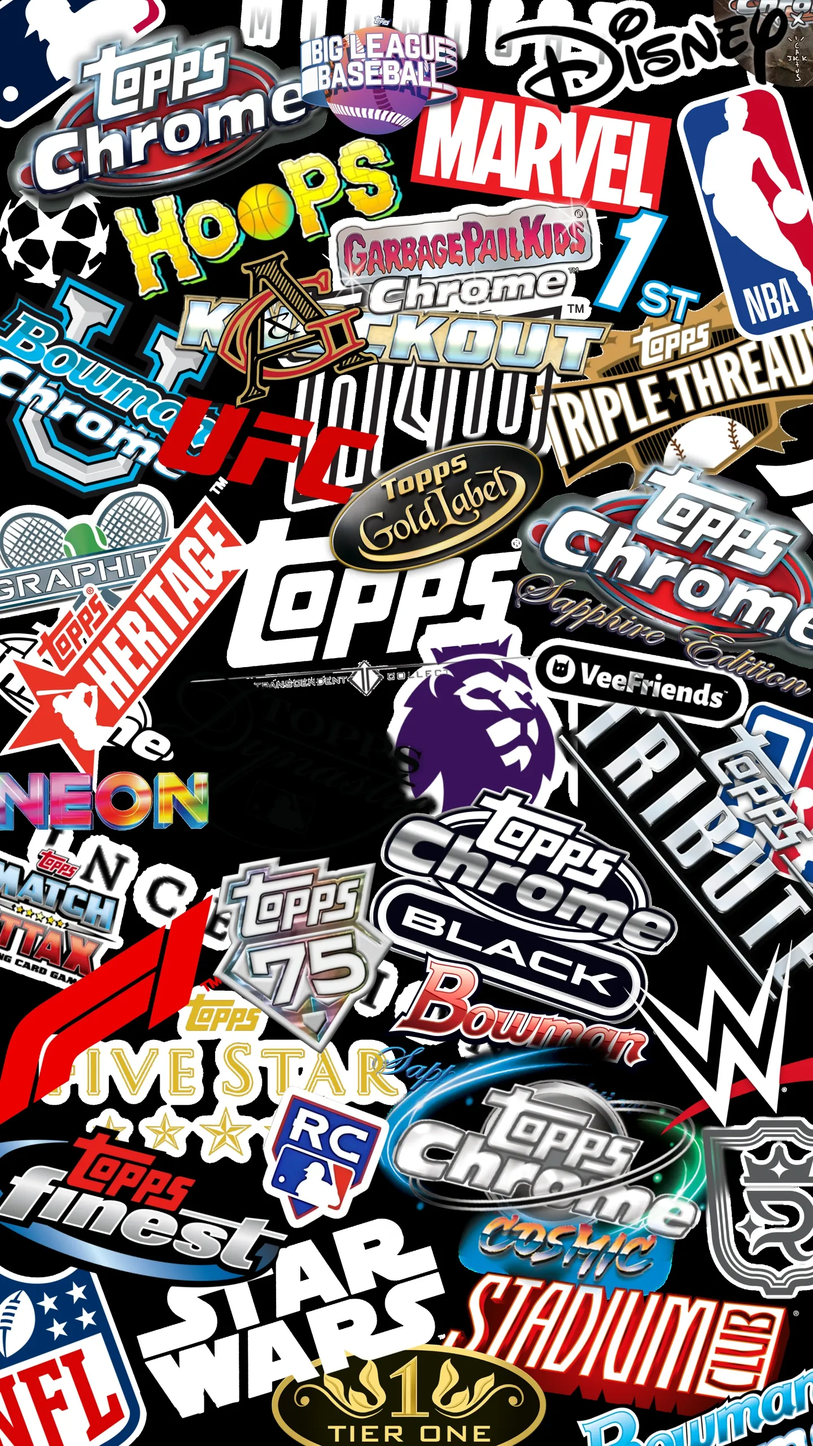
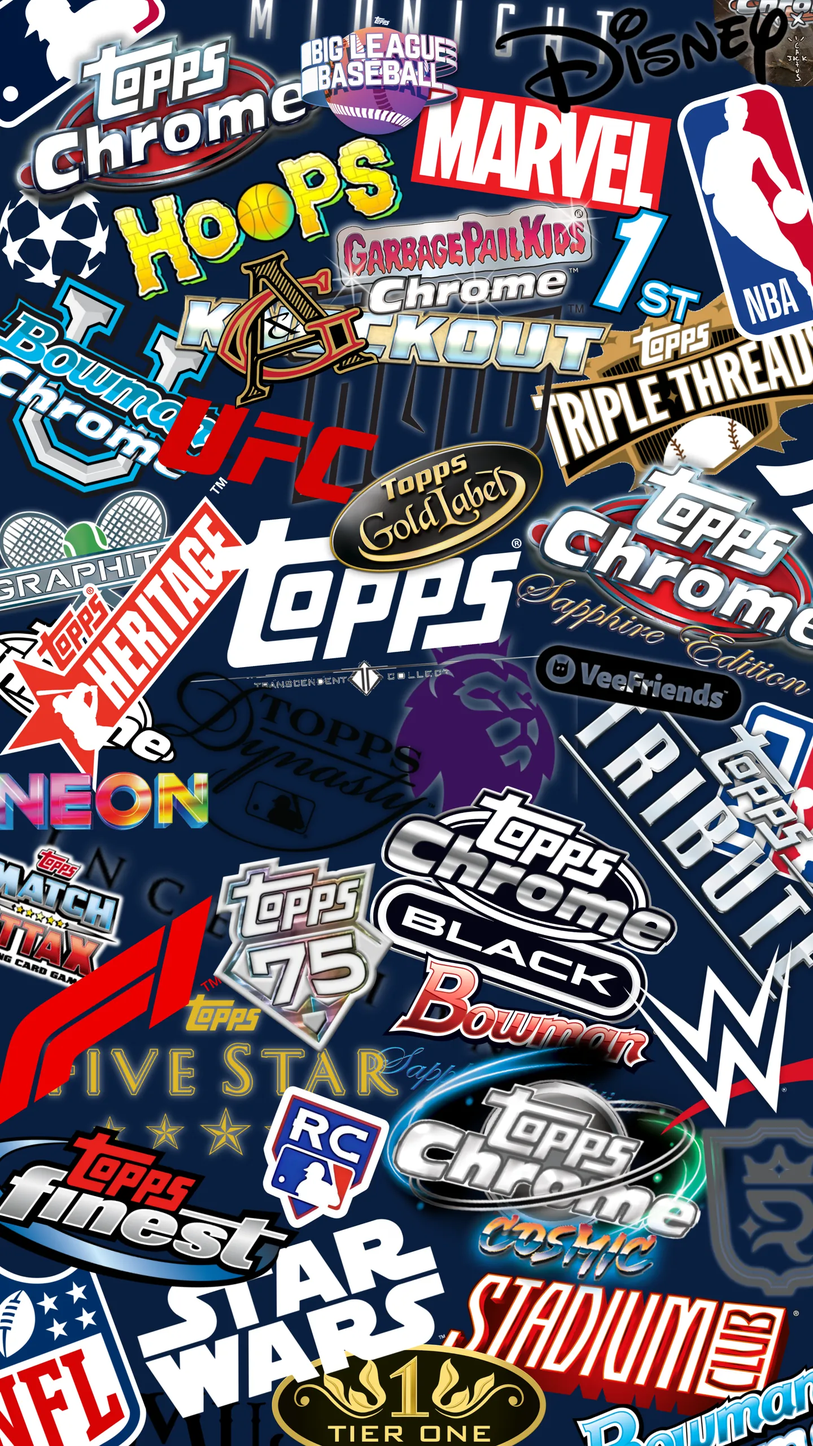
deploy v1785175690

diff --git a/styles.css b/styles.css
@@ -19,7 +19,7 @@ body{font-family:var(--sans);background:var(--blue);color:#fff;min-height:100vh;
 /* Brand wall: a collage of Topps brand logos (site/img/brand-wall.webp, built
    from the Vault's _Logo_Library) behind everything, veiled in Official Blue
    so it reads as texture. Tune the veil via the rgba alphas below. */
[2 lines of base64/hex data omitted]
 .app{width:100%;max-width:640px}
 
 .header{text-align:center;margin-bottom:26px;padding-top:4px}
@@ -149,12 +149,12 @@ h1 em{font-style:normal;color:var(--red)}
    the type in. Everything staged is opacity/transform only, cheap on phones. */
 .reveal{position:fixed;inset:0;background:#091F40;display:flex;align-items:center;justify-content:center;z-index:50;text-align:center;padding:24px;overflow:hidden}
 /* Gus's brand-wall collage behind everything, blurred, under a navy tint */
-.reveal::before{content:"";position:absolute;inset:-24px;background:url('img/brand-wall.webp?v=3') center/cover;filter:blur(5px)}
+.reveal::before{content:"";position:absolute;inset:-24px;background:url('img/brand-wall.webp?v=4') center/cover;filter:blur(5px)}
 /* Phones get Gus's portrait collage (brand-wall-mobile.webp, 1080x1920) so
    the wall isn't a center-crop of the landscape design. Same veils apply. */
 @media (max-width:700px){
[1 lines of base64/hex data omitted]
-  .reveal::before{background-image:url('img/brand-wall-mobile.webp?v=2')}
[1 lines of base64/hex data omitted]
+  .reveal::before{background-image:url('img/brand-wall-mobile.webp?v=4')}
 }
 .reveal::after{content:"";position:absolute;inset:0;background:radial-gradient(120% 90% at 50% 38%,rgba(18,43,85,.82) 0%,rgba(9,31,64,.9) 55%,rgba(6,15,34,.95) 100%)}
 .reveal.hidden{display:none!important}

diff --git a/board.html b/board.html
@@ -4,7 +4,7 @@
 <meta charset="UTF-8">
 <meta name="viewport" content="width=device-width, initial-scale=1.0">
 <title>ToppsMatch | Live Match Board</title>
-<link rel="stylesheet" href="styles.css?v=1785172749">
+<link rel="stylesheet" href="styles.css?v=1785175690">
 </head>
 <body>
 <div class="board-app">
@@ -19,6 +19,6 @@
   </div>
   <div id="board"></div>
 </div>
-<script type="module" src="board.js?v=1785172749"></script>
+<script type="module" src="board.js?v=1785175690"></script>
 </body>
 </html>

diff --git a/index.html b/index.html
@@ -4,7 +4,7 @@
 <meta charset="UTF-8">
 <meta name="viewport" content="width=device-width, initial-scale=1.0">
 <title>ToppsMatch | Find Your Perfect Pack</title>
-<link rel="stylesheet" href="styles.css?v=1785172749">
+<link rel="stylesheet" href="styles.css?v=1785175690">
 </head>
 <body>
 <div id="reveal" class="reveal hidden">
@@ -81,6 +81,6 @@
   </div>
 
 </div>
-<script type="module" src="app.js?v=1785172749"></script>
+<script type="module" src="app.js?v=1785175690"></script>
 </body>
 </html>
